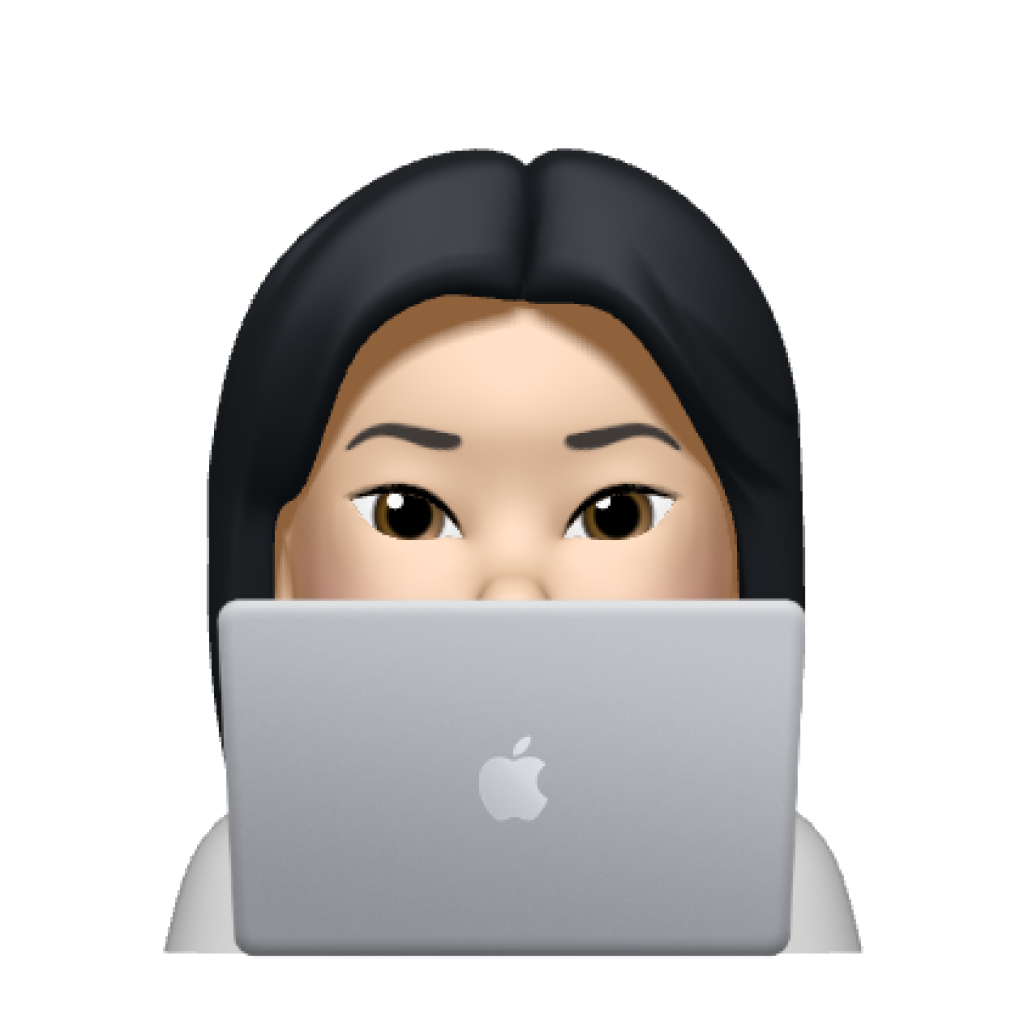
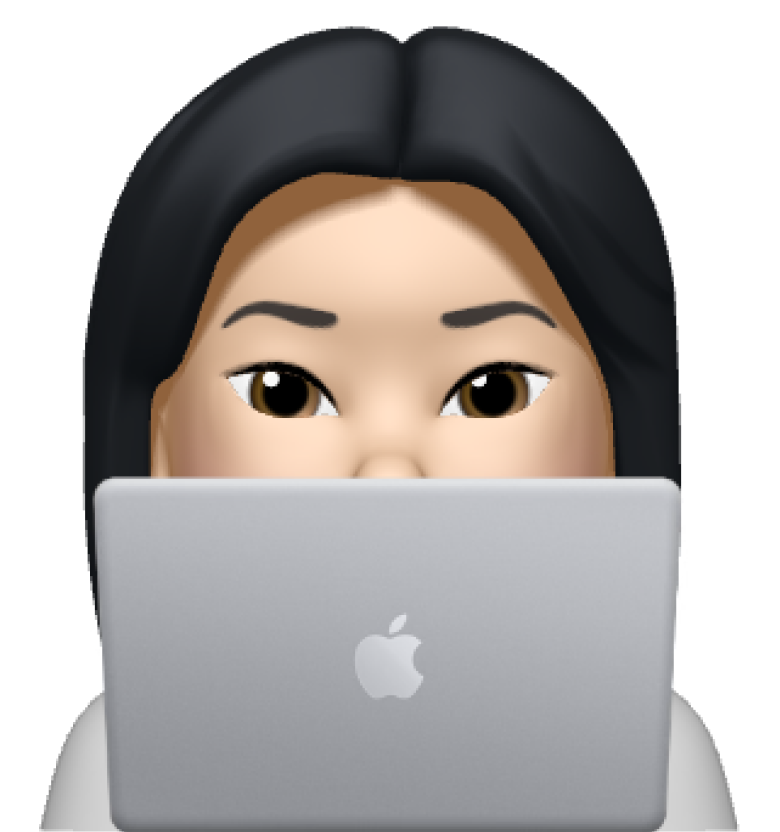
structure changes
added container, row and col structure to center items and placement

diff --git a/week_10/homework/custom.css b/week_10/homework/custom.css
@@ -19,7 +19,28 @@ body {
     100% {
         background-color: hsl(0, 0%, 0%);}
 }
-
+.typing {
+  width: 18ch;
+  animation: typingAnim 2s steps(18), blink .5s step-end infinite alternate;
+  white-space: nowrap;
+  overflow: hidden;
+  border-right: 3px solid;
+  font-family: monospace;
+  font-size: 2em;
+  background-color: white;
+  color: black;
+}
+@keyframes typingAnim {
+  from {
+    width: 0
+  }
+}
+    
+@keyframes blink {
+  50% {
+    border-color: transparent;
+  }
+}
 
  .sun{ 
   position: absolute;
@@ -42,39 +63,41 @@ body {
 @keyframes sunAnim {
   0% {
     top:25vh;
-    transform: scale(1.25);
+    transform: scale(1.5);
   }
   50% {
-    top:110vh;
-    transform: scale(.25);
+    top:100vh;
+    transform: scale(.1);
   }
   100% {
     top: 25vh;
-    transform: scale(1.25);
+    transform: scale(1.5);
   }
   } 
 
 @keyframes moonAnim {
   0% {
-    top:110vh;
-    transform: scale(.25);
+    top:100vh;
+    transform: scale(.1);
+    
   }
   50% {
     top:25vh;
-    transform: scale(1.25);
+    transform: scale(1.5);
+   
   }
   100% {
-    top: 110vh;
-    transform: scale(.25);
+    top: 100vh;
+    transform: scale(.1);
+    
   }
   }
 
 @keyframes showTiredBrain {
     0% {opacity: 0;}
-    25% {opacity: 0;}
-    50% {opacity: 0;}
-    75% {opacity: .75;}
+    75% {opacity: 1;}
     100% {opacity: 1;}
+   
 }
 
 @keyframes brainPulse {
@@ -85,63 +108,36 @@ body {
     transform: scale(.8);
     }
 }
-@media screen and (min-width: 375px) {
-    .laptop {
-        height: 33vh;
-        position: absolute;
-        left: 15vw;
-        bottom: -5vh;
-    }
-    .brain-awake{
-        height: 20vh;
-        position: absolute;
-       left: 30vw;
-        bottom: 20vh;
-        animation: brainPulse 6s forwards;
-        animation-iteration-count:infinite;
-        animation-direction: alternate;
-    } 
-    .brain-tired{
-        transform: scale(.8);
-        height: 20vh;
-        position: absolute;
-        left: 30vw;
-        bottom: 20vh;
-        animation: showTiredBrain 6s forwards;
-        opacity: 0;
-        animation-iteration-count:infinite;
-        animation-direction: alternate;
-        animation-timing-function:ease-in-out;
-        z-index: 2;
-    } 
+.laptop {
+  height: 50vh;
+  position: fixed;
+  bottom: 0px;
+}
+
+.brains{
+  padding-top: 10vh;
+  animation: brainPulse 6s forwards;
+  animation-iteration-count:infinite;
+  animation-direction: alternate;
+}
+.brain-awake{
+  width: 20vw;
+  position: absolute;
+
+  
+} 
+.brain-tired{
+  width: 20vw;
+  position: absolute;
+  animation: showTiredBrain 6s forwards;
+  opacity: 0;
+  animation-iteration-count:infinite;
+  animation-direction: alternate;
+  animation-timing-function:ease-in-out;
+  z-index: 2;
+} 
+@media only screen and (max-width: 600px) {
+  .brains{
+    transform: scale(2);
   }
-  @media screen and (min-width: 768px) {
-    .laptop{
-        height: 33vh;
-        position: absolute;
-        left: 33vw;
-        bottom: -5vh;
-    } 
-    .brain-awake{
-        height: 20vh;
-        position: absolute;
-        left: 36vw;
-        bottom: 20vh;
-        animation: brainPulse 6s forwards;
-        animation-iteration-count:infinite;
-        animation-direction: alternate;
-    } 
-    .brain-tired{
-        transform: scale(.8);
-        height: 20vh;
-        position: absolute;
-        left: 36vw;
-        bottom: 20vh;
-        animation: showTiredBrain 6s forwards;
-        opacity: 0;
-        animation-iteration-count:infinite;
-        animation-direction: alternate;
-        animation-timing-function:ease-in-out;
-        z-index: 2;
-    } 
-  }
+}

diff --git a/week_10/homework/index.html b/week_10/homework/index.html
@@ -13,22 +13,31 @@
     <title>Animate the Animatables</title>
   </head>
   <body>
-    
-  
-      <img class="sun" src="images/sun2.png" alt="sun icon" >
-      <img class="moon" src="images/moon.png" alt="moon icon" >
-      <div class="brain">
-      <div>
-        <img  class="brain-awake" src="images/brain-awake.png" alt="awake brain icon" >
-      </div>
-      <div>
-        <img  class="brain-tired" src="images/brain-tired.png" alt="tired brain icon" >
+    <div class="container-fluid">
+      <div class="row">
+        <div class="col d-flex justify-content-center align-self-center pt-5">
+      <div class="typing">
+        Hi, I'm Lisa Chao. I'm busy at my computer now.
       </div>
     </div>
-      <div>
-        <img  class="laptop" src="images/laptop.png" alt="laptop emoji" >
+  </div>
+ 
+    <div class="row">
+      <div class="col d-flex justify-content-center align-self-center">
+      <img class="sun" src="images/sun2.png" alt="sun icon" >
+      <img class="moon" src="images/moon.png" alt="moon icon" >
+      <div class="brains col d-flex justify-content-center align-self-center">
+        <img  class="brain-tired" src="images/brain-tired.png" alt="tired brain icon" >
+        <img  class="brain-awake" src="images/brain-awake.png" alt="awake brain icon" >
       </div>
+      <img  class="laptop" src="images/laptop.png" alt="laptop emoji" >
+    </div>
+  </div>
     
+ 
+    
+</div>
+
 
 
     <!-- Option 1: Bootstrap Bundle with Popper -->

diff --git a/week_10/in_class/index.html b/week_10/in_class/index.html
@@ -8,7 +8,7 @@
     <style>
         body {
             margin: 0px;
-            overflow: hidden;
+            /* overflow: hidden; */
             animation: colorBody 5s;
             position: relative;
             height: 100vh;
